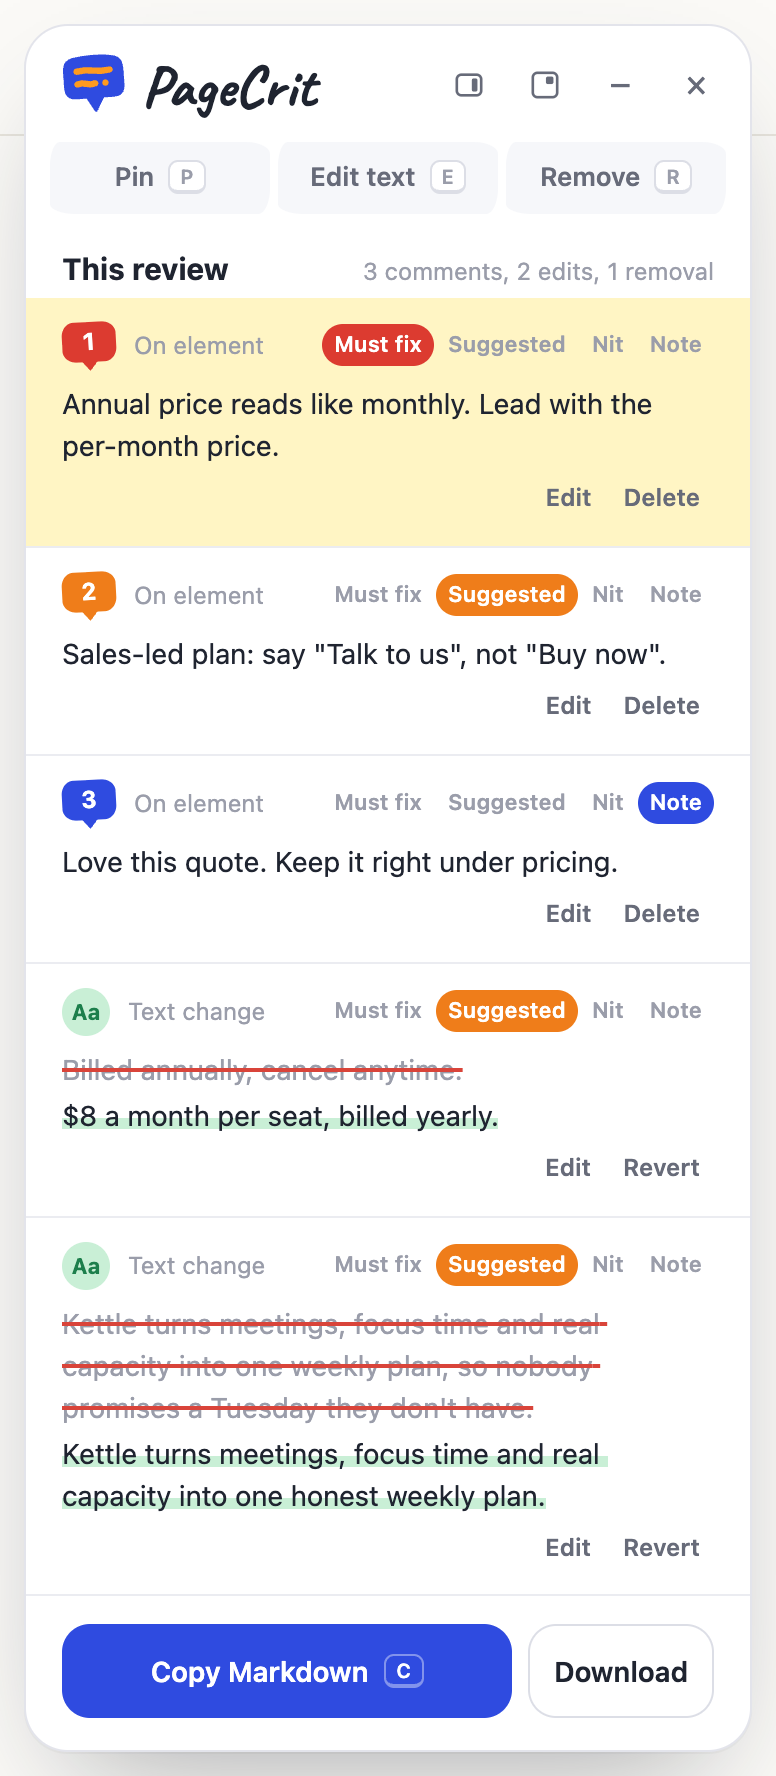
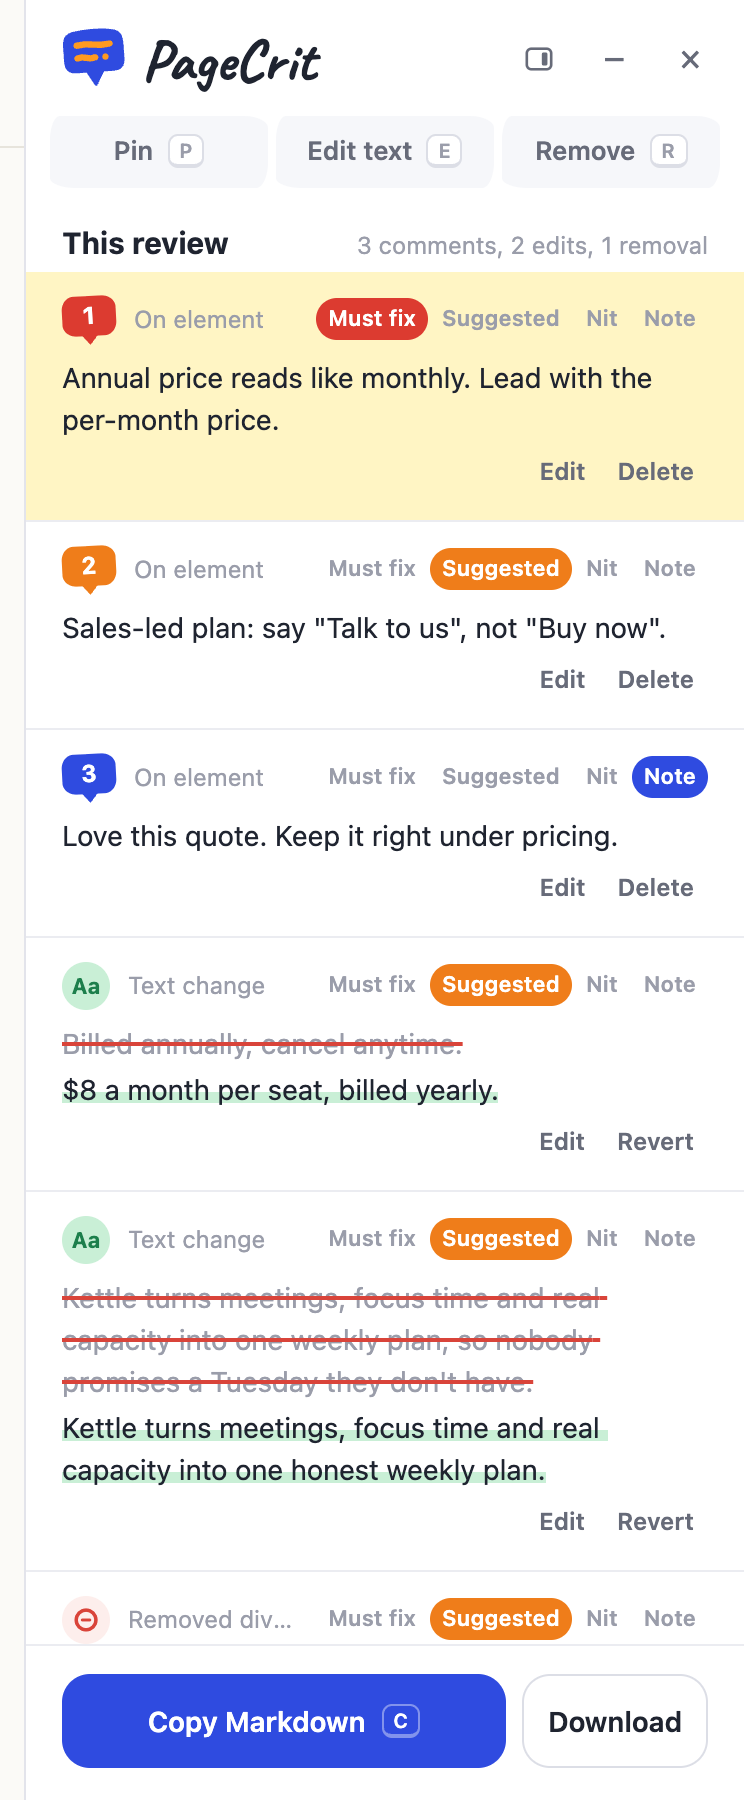
Release 0.3.1: open docked as a sidebar by default
Homepage says the sidebar is the default and the panel can float; screenshots, share image and store images show the docked sidebar.

Claude-Session: https://claude.ai/code/session_01JEzQm5JubcFJjatA3SDQcf

Changed region(s): [[0.0309, 0.0, 1.0, 1.0], [0.5874, 0.031, 0.6183, 0.0929]]

diff --git a/site/index.html b/site/index.html
@@ -203,7 +203,7 @@
         <!-- Each arrow runs from its label to a point in the screenshot (fractions of the image,
              written by npm run screenshots) and is redrawn whenever the layout changes. -->
         <span class="note pin" data-anchor="pin" data-at="0.413,0.631">pin anywhere</span>
-        <span class="note copy" data-from="left" data-bow="1.4" data-anchor="copy" data-at="0.748,0.935">one click, ready to paste</span>
+        <span class="note copy" data-from="left" data-bow="1.4" data-anchor="copy" data-at="0.763,0.956">one click, ready to paste</span>
         <svg class="arrows" aria-hidden="true"></svg>
       </figure>
     </section>
@@ -286,7 +286,7 @@
         <article class="card s3">
           <div class="art roomy"><img class="flat" src="assets/pill.png" width="228" alt="The PageCrit panel minimized to a small pill showing 6 items." loading="lazy"></div>
           <h3>Stays out of your way</h3>
-          <p>Drag the panel anywhere, snap it back to a corner, or shrink it to a pill that keeps count while you look at the page.</p>
+          <p>It opens as a sidebar and moves the page over, so nothing is covered. Drag its edge to resize, float it as a panel instead, or shrink it to a pill that keeps count.</p>
         </article>
         <article class="card s3">
           <div class="art"><ul class="bars" aria-label="Works on localhost, staging and production">

diff --git a/site/embed/pagecrit.js b/site/embed/pagecrit.js
@@ -995,7 +995,7 @@ function run() {
   const MAX_TEXT = 20000;
   const MAX_COMMENT = 10000;
   const MAX_ITEMS = 500;
-  const VERSION = '0.3.0';
+  const VERSION = '0.3.1';
   const id = () => crypto.randomUUID();
   const now = () => new Date().toISOString();
   const startUrl = location.href;

diff --git a/extension/content.js b/extension/content.js
@@ -14,7 +14,7 @@
   const MAX_TEXT = 20000;
   const MAX_COMMENT = 10000;
   const MAX_ITEMS = 500;
-  const VERSION = '0.3.0';
+  const VERSION = '0.3.1';
   const id = () => crypto.randomUUID();
   const now = () => new Date().toISOString();
   const startUrl = location.href;

diff --git a/README.md b/README.md
@@ -63,9 +63,9 @@ One short Markdown file: a header with the page, timing and environment, a "How 
 # Review: Kettle: plan the week your team actually has
 
 - Page: https://kettle.example/pricing
-- Review: r-20261026-d67e · PageCrit 0.3.0 · digest v1
-- Started: 2026-10-26T21:46:10-07:00 · Exported: 2026-10-26T21:46:14-07:00 (0 min)
-- Environment: Chromium 141 · macOS · 1440×900 @2x · light
+- Review: r-20261027-4059 · PageCrit 0.3.1 · digest v1
+- Started: 2026-10-27T17:23:21-07:00 · Exported: 2026-10-27T17:23:24-07:00 (0 min)
+- Environment: Chromium 141 · macOS · 1440×900 @2x (sidebar open: page laid out 1080px wide) · light
 - Summary: 3 comments, 2 text edits, 1 removal
 - Severity: 1 must fix, 4 suggested, 0 nits, 1 note
 

diff --git a/site/assets/sample-review.md b/site/assets/sample-review.md
@@ -1,9 +1,9 @@
 # Review: Kettle: plan the week your team actually has
 
 - Page: https://kettle.example/pricing
-- Review: r-20261026-d67e · PageCrit 0.3.0 · digest v1
-- Started: 2026-10-26T21:46:10-07:00 · Exported: 2026-10-26T21:46:14-07:00 (0 min)
-- Environment: Chromium 141 · macOS · 1440×900 @2x · light
+- Review: r-20261027-4059 · PageCrit 0.3.1 · digest v1
+- Started: 2026-10-27T17:23:21-07:00 · Exported: 2026-10-27T17:23:24-07:00 (0 min)
+- Environment: Chromium 141 · macOS · 1440×900 @2x (sidebar open: page laid out 1080px wide) · light
 - Summary: 3 comments, 2 text edits, 1 removal
 - Severity: 1 must fix, 4 suggested, 0 nits, 1 note
 
